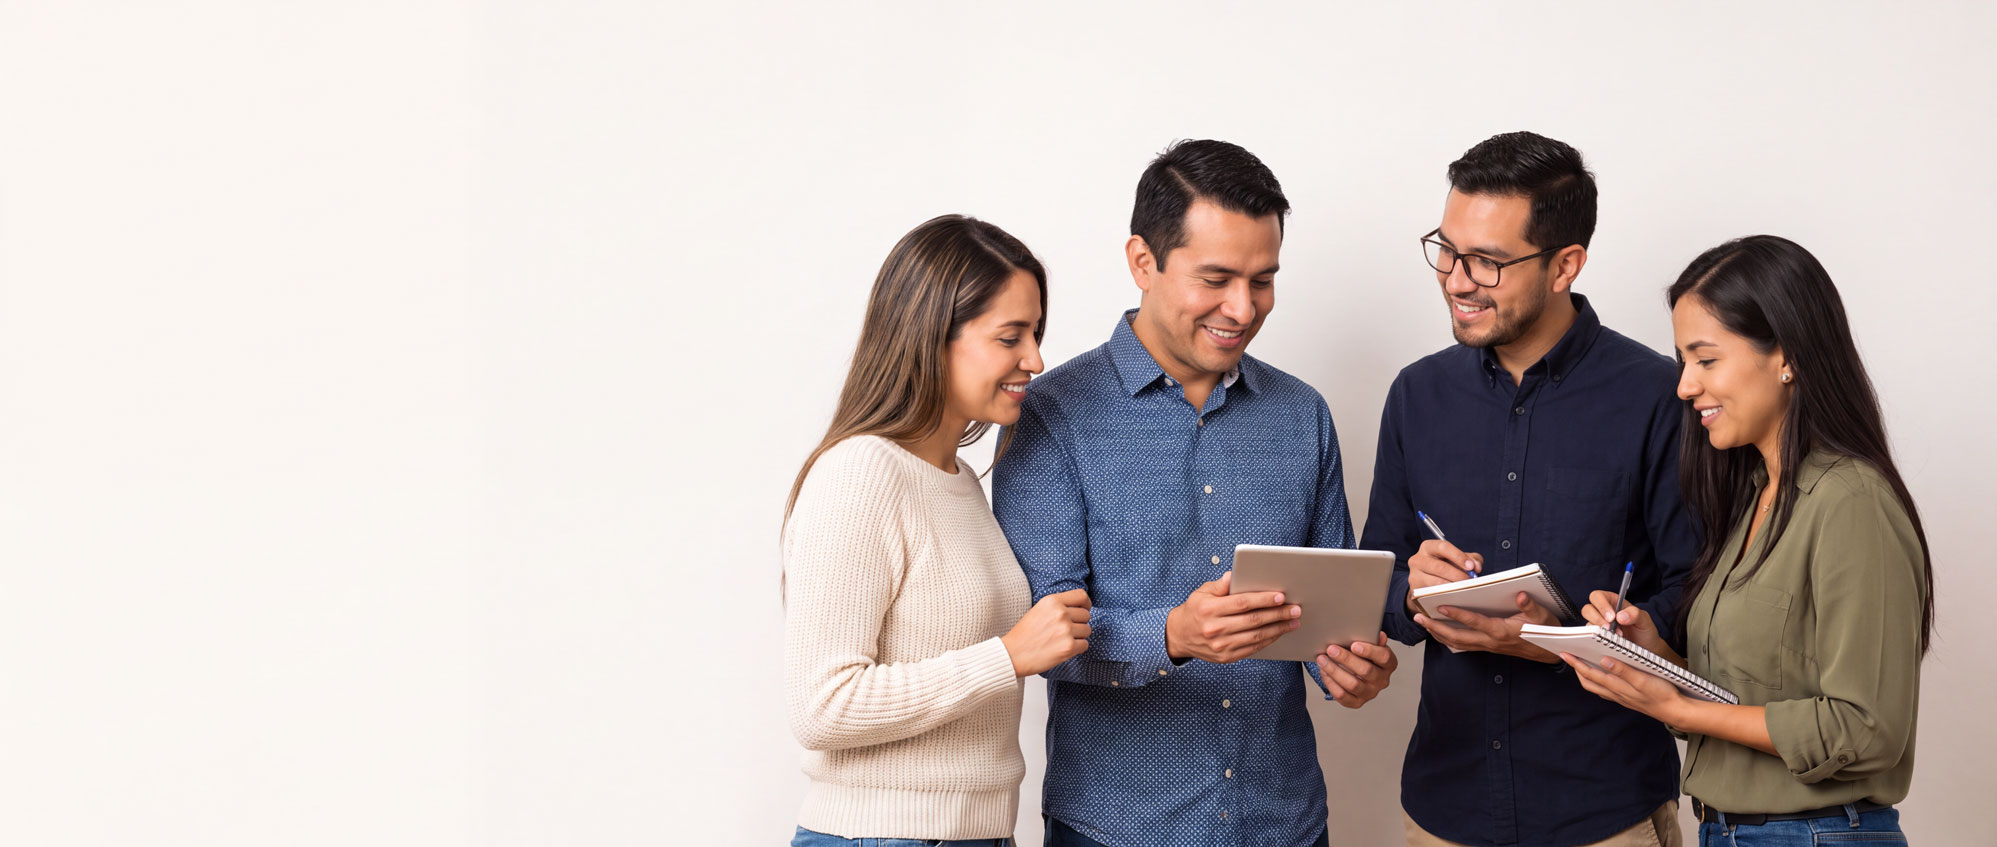
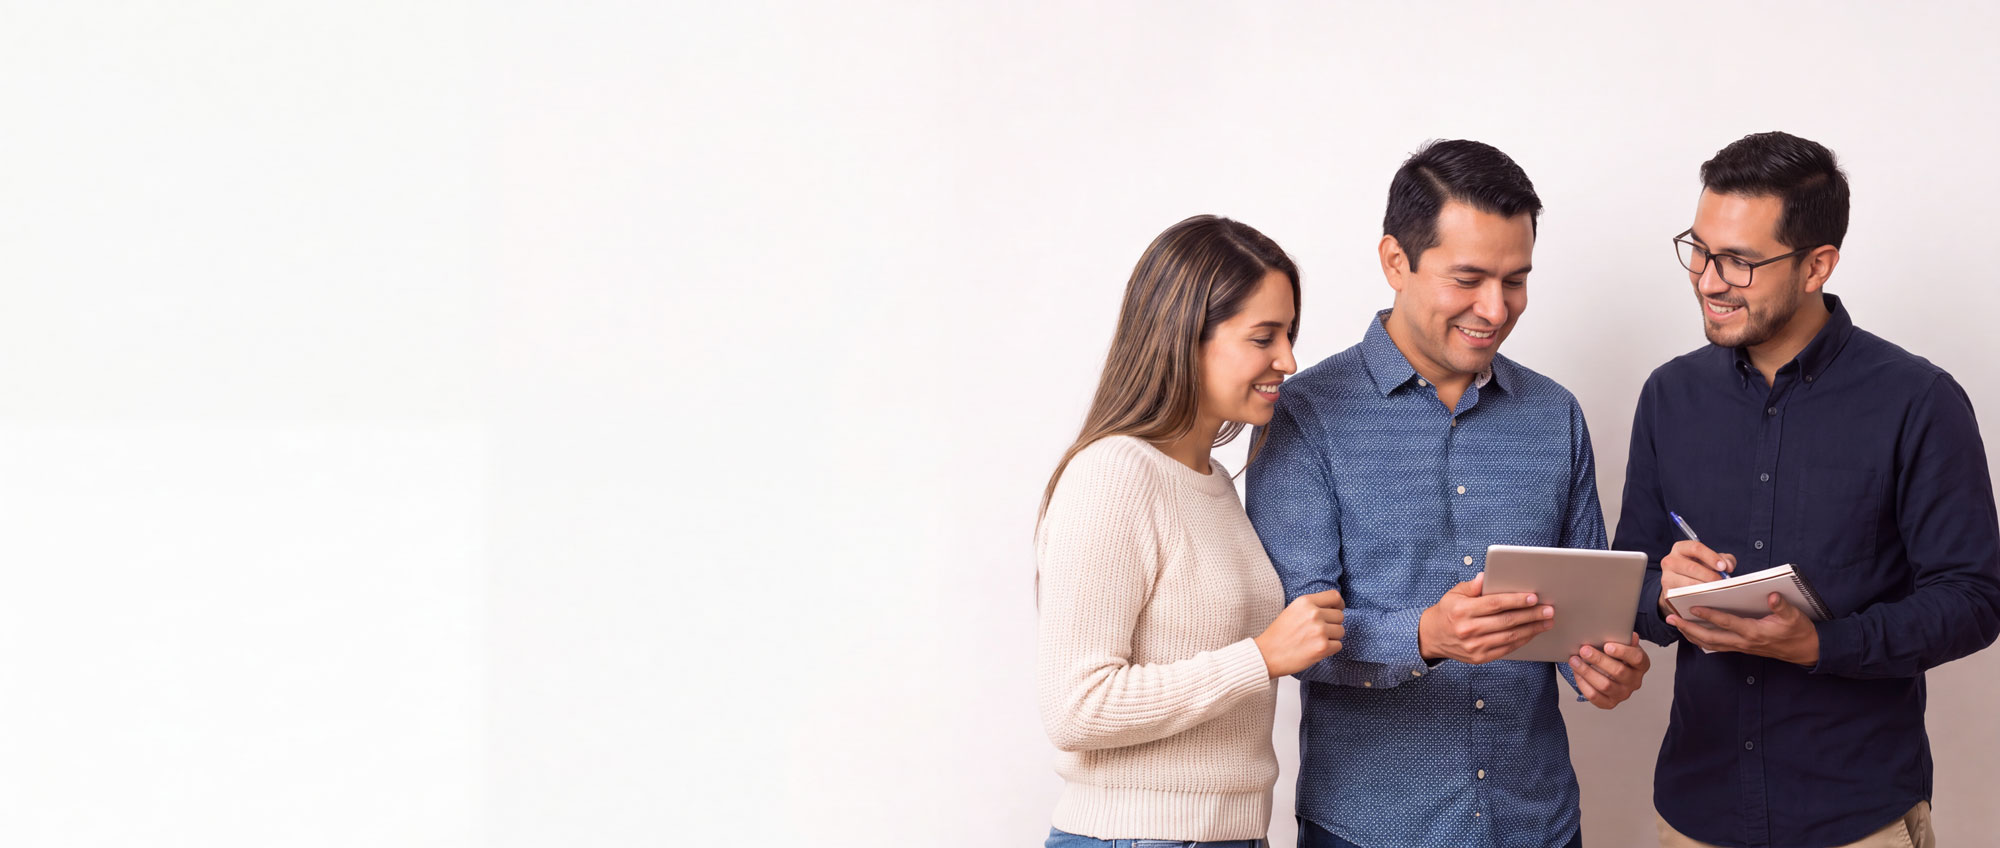
Voluntariado: nueva foto de hero, quita blob decorativo y sube el texto
Reemplaza la foto del hero por una con espacio en blanco integrado para
el texto, elimina el blob morado detrás del título y sube el bloque de
texto ~40px en desktop (sin afectar el layout mobile en flujo normal).

diff --git a/src/pages/Voluntariado/Voluntariado.css b/src/pages/Voluntariado/Voluntariado.css
@@ -5,21 +5,6 @@
   background: #fdf4f6;
 }
 
-.voluntariado-hero__blob {
-  position: absolute;
-  border-radius: 9999px;
-  filter: blur(16px);
-  pointer-events: none;
-}
-
-.voluntariado-hero__blob--a {
-  top: -80px;
-  right: -80px;
-  width: 200px;
-  height: 200px;
-  background: rgba(212, 103, 154, 0.14);
-}
-
 .voluntariado-hero__inner {
   position: relative;
   display: flex;
@@ -468,7 +453,7 @@
 
   .voluntariado-hero__visual {
     position: absolute;
-    inset: 0 0 0 calc(var(--hero-gutter) + 560px);
+    inset: 0;
     z-index: 0;
     width: auto;
     aspect-ratio: auto;
@@ -482,6 +467,7 @@
     width: 520px;
     padding: 0 40px 0 0;
     gap: 32px;
+    margin-top: -40px;
   }
 
   .voluntariado-hero__ctas {
@@ -492,9 +478,6 @@
     width: auto;
   }
 
-  .voluntariado-hero__media {
-    background-position: 100% center;
-  }
 
   .voluntariado-hero__title {
     max-width: none;

diff --git a/src/pages/Voluntariado/Voluntariado.tsx b/src/pages/Voluntariado/Voluntariado.tsx
@@ -319,7 +319,6 @@ export default function Voluntariado() {
 
       <main>
         <section className="voluntariado-hero">
-          <span className="voluntariado-hero__blob voluntariado-hero__blob--a" aria-hidden="true" />
 
           <div className="voluntariado-hero__inner">
             <div className="voluntariado-hero__visual">
